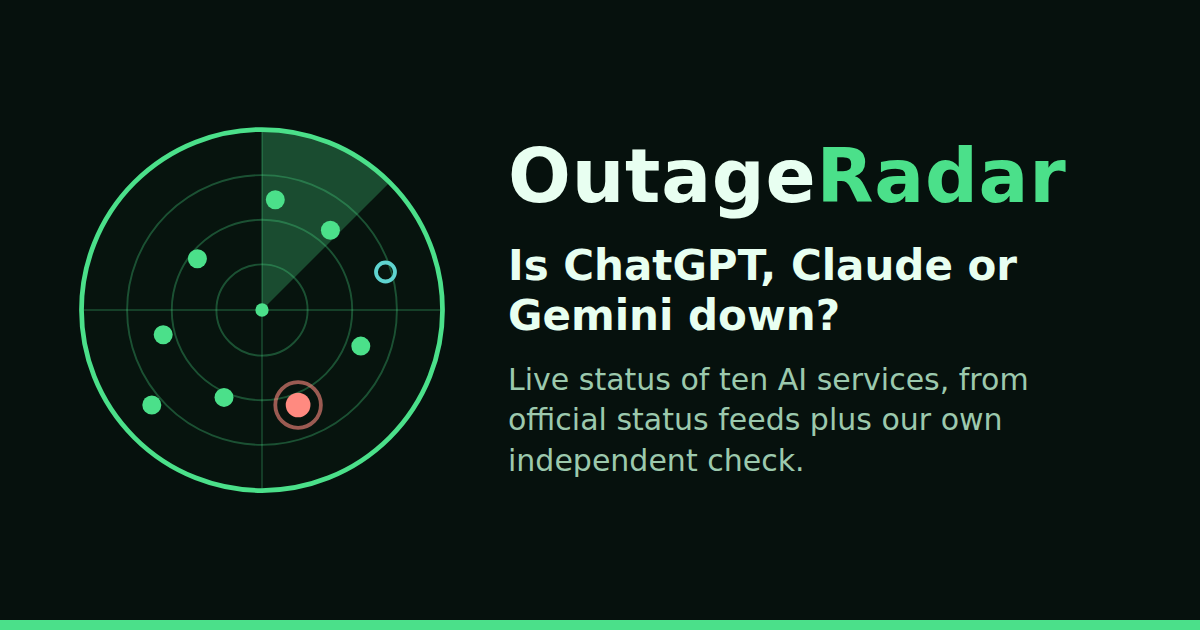
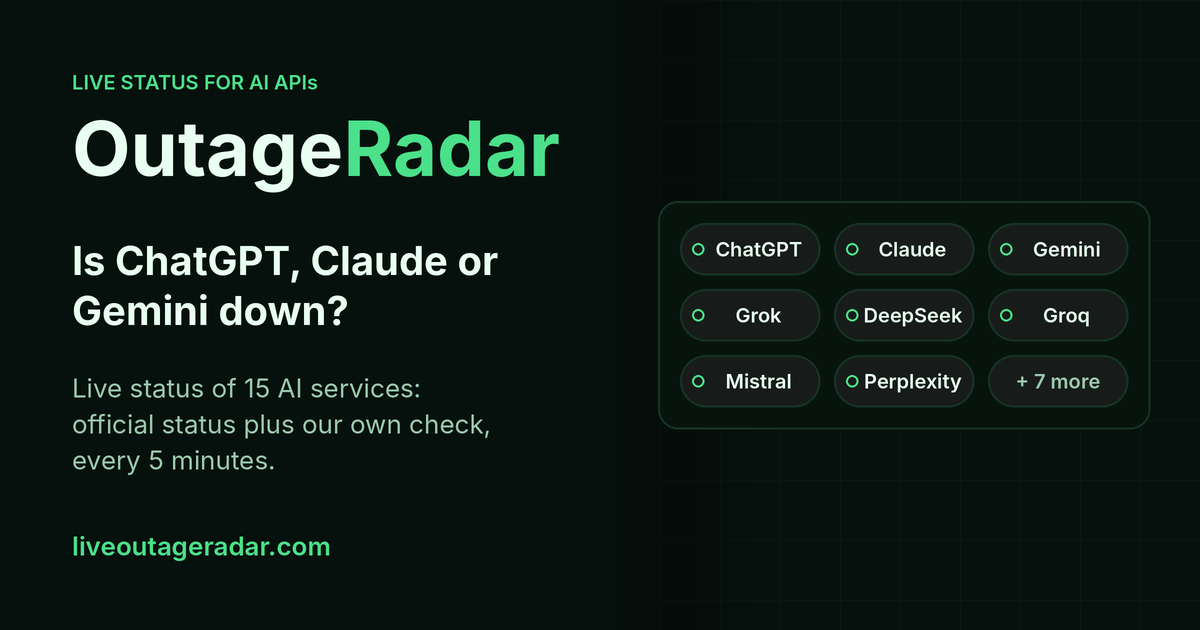
Add files via upload

diff --git a/web-tests/board.test.js b/web-tests/board.test.js
@@ -1,3 +1,5 @@
+import { spawnSync } from "node:child_process";
+import { fileURLToPath } from "node:url";
 // Display-logic tests for the board. Nothing here ships to the site.
 import { test } from "node:test";
 import assert from "node:assert/strict";
@@ -410,6 +412,20 @@ test("the homepage has a link-preview card for social sites", () => {
   assert.equal(png.subarray(1, 4).toString(), "PNG");
   assert.equal(png.readUInt32BE(16), 1200);
   assert.equal(png.readUInt32BE(20), 630);
+});
+
+// v1.18.1: the sharing image is generated from the board's own service list,
+// so its count can't go stale again (it said "ten" after we reached 15).
+test("the sharing image is up to date with the service list", () => {
+  const run = (arg) => spawnSync("python3", [fileURLToPath(new URL("../tools/og_image.py", import.meta.url)), arg], { encoding: "utf8" });
+  const count = run("--count");
+  assert.equal(count.status, 0, count.stderr);
+  assert.equal(Number(count.stdout.trim()), SHELL.length, "the image counts the same services as the board");
+  const verify = run("--verify");
+  assert.equal(verify.status, 0, "site/og.png is out of date: run python3 tools/og_image.py\n" + verify.stdout + verify.stderr);
+  const alt = PAGE.match(/<meta property="og:image:alt" content="([^"]+)">/)[1];
+  assert.match(alt, new RegExp("\\b" + SHELL.length + " AI services\\b"));
+  assert.doesNotMatch(alt, /\bten\b/i);
 });
 
 test("the old preview address forwards to the homepage and is not indexed", () => {

diff --git a/site/index.html b/site/index.html
@@ -18,7 +18,7 @@
 <meta property="og:image" content="https://liveoutageradar.com/og.png">
 <meta property="og:image:width" content="1200">
 <meta property="og:image:height" content="630">
-<meta property="og:image:alt" content="OutageRadar radar emblem with the words: live status of AI services">
+<meta property="og:image:alt" content="OutageRadar: is ChatGPT, Claude or Gemini down? Live status of 15 AI services, official status plus our own check every 5 minutes.">
 <meta name="twitter:card" content="summary_large_image">
 <style>
 :root{

diff --git a/tools/og_image.py b/tools/og_image.py
@@ -1,0 +1,125 @@
+"""Sharing image (site/og.png, 1200x630) for link previews on X, Bluesky,
+Discord, Slack and others. Site v1.18.1.
+
+The service count and the "+ N more" chip come from the board's own list in
+site/board.js, so the image can't go stale when services are added.
+
+  python3 tools/og_image.py           write site/og.png
+  python3 tools/og_image.py --count   print the service count it uses
+  python3 tools/og_image.py --verify  exit 1 if site/og.png is out of date
+
+Needs Pillow and the Inter font (only to regenerate; the site never runs this).
+Names only, never statuses: a fixed picture must not claim anything is up.
+"""
+import os
+import re
+import sys
+
+ROOT = os.path.dirname(os.path.dirname(os.path.abspath(__file__)))
+BOARD = os.path.join(ROOT, "site", "board.js")
+OUT = os.path.join(ROOT, "site", "og.png")
+FONT_DIRS = ["/usr/share/fonts/opentype/inter", os.path.join(ROOT, "brand", "fonts")]
+
+BG = (6, 17, 13)
+LINE = (23, 51, 37)
+TEXT = (232, 255, 241)
+MUTED = (156, 201, 173)
+OP = (75, 224, 138)
+CHIP = (23, 28, 26)
+PANEL = (7, 20, 14)
+SHOWN = ["ChatGPT", "Claude", "Gemini", "Grok", "DeepSeek", "Groq", "Mistral", "Perplexity"]
+
+
+def service_count():
+    with open(BOARD, encoding="utf-8") as fh:
+        src = fh.read()
+    start = src.index("export const SHELL = [")
+    end = src.index("];", start)
+    return len(re.findall(r"\{\s*id:\s*\"[a-z0-9-]+\"", src[start:end]))
+
+
+def font(name, size):
+    from PIL import ImageFont
+    for d in FONT_DIRS:
+        path = os.path.join(d, name)
+        if os.path.exists(path):
+            return ImageFont.truetype(path, size)
+    raise SystemExit("Inter font not found (" + name + "); install Inter to regenerate the image")
+
+
+def render():
+    from PIL import Image, ImageDraw, ImageFilter
+    n = service_count()
+    s = 2
+    w, h = 1200 * s, 630 * s
+    img = Image.new("RGBA", (w, h), BG + (255,))
+    grid = Image.new("RGBA", (w, h), (0, 0, 0, 0))
+    g = ImageDraw.Draw(grid)
+    for x in range(0, w, 60 * s):
+        g.line((x, 0, x, h), fill=LINE + (60,), width=s)
+    for y in range(0, h, 60 * s):
+        g.line((0, y, w, y), fill=LINE + (60,), width=s)
+    img.alpha_composite(grid)
+    fade = Image.new("RGBA", (w, h), (0, 0, 0, 0))
+    ImageDraw.Draw(fade).rectangle((0, 0, int(w * 0.56), h), fill=BG + (235,))
+    img.alpha_composite(fade.filter(ImageFilter.GaussianBlur(60 * s)))
+
+    d = ImageDraw.Draw(img)
+    x0 = 72 * s
+    d.text((x0, 70 * s), "LIVE STATUS FOR AI APIs", font=font("Inter-SemiBold.otf", 20 * s), fill=OP)
+    big = font("Inter-Bold.otf", 76 * s)
+    d.text((x0, 102 * s), "Outage", font=big, fill=TEXT)
+    d.text((x0 + d.textlength("Outage", font=big), 102 * s), "Radar", font=big, fill=OP)
+    head = font("Inter-Bold.otf", 40 * s)
+    d.text((x0, 236 * s), "Is ChatGPT, Claude or", font=head, fill=TEXT)
+    d.text((x0, 286 * s), "Gemini down?", font=head, fill=TEXT)
+    sub = font("Inter-Regular.otf", 26 * s)
+    d.text((x0, 372 * s), "Live status of " + str(n) + " AI services:", font=sub, fill=MUTED)
+    d.text((x0, 408 * s), "official status plus our own check,", font=sub, fill=MUTED)
+    d.text((x0, 444 * s), "every 5 minutes.", font=sub, fill=MUTED)
+    d.text((x0, 530 * s), "liveoutageradar.com", font=font("Inter-SemiBold.otf", 26 * s), fill=OP)
+
+    names = SHOWN + ["+ " + str(n - len(SHOWN)) + " more"]
+    cw, ch, gap = 140 * s, 52 * s, 14 * s
+    px = w - 72 * s - (3 * cw + 2 * gap)
+    py = (h - (3 * ch + 2 * gap)) // 2
+    d.rounded_rectangle((px - 22 * s, py - 22 * s, px + 3 * cw + 2 * gap + 22 * s, py + 3 * ch + 2 * gap + 22 * s),
+                        radius=20 * s, fill=PANEL, outline=LINE, width=2 * s)
+    chip = font("Inter-SemiBold.otf", 20 * s)
+    for i, name in enumerate(names):
+        cx = px + (i % 3) * (cw + gap)
+        cy = py + (i // 3) * (ch + gap)
+        d.rounded_rectangle((cx, cy, cx + cw, cy + ch), radius=ch // 2, fill=CHIP, outline=LINE, width=2 * s)
+        more = name.startswith("+")
+        if not more:
+            r = 6 * s
+            dx, dy = cx + 18 * s, cy + ch // 2
+            d.ellipse((dx - r, dy - r, dx + r, dy + r), outline=OP, width=2 * s)  # neutral ring, no status
+        tw = d.textlength(name, font=chip)
+        tx = cx + (cw - tw) // 2 + (0 if more else 9 * s)
+        d.text((tx, cy + ch // 2), name, font=chip, fill=MUTED if more else TEXT, anchor="lm")
+    return img.resize((1200, 630), Image.LANCZOS).convert("RGB")
+
+
+def main(argv):
+    if "--count" in argv:
+        print(service_count())
+        return 0
+    img = render()
+    if "--verify" in argv:
+        from PIL import Image, ImageChops
+        if not os.path.exists(OUT):
+            print("site/og.png is missing")
+            return 1
+        current = Image.open(OUT).convert("RGB")
+        if current.size != img.size or ImageChops.difference(current, img).getbbox() is not None:
+            print("site/og.png differs from the generated image")
+            return 1
+        return 0
+    img.save(OUT, optimize=True)
+    print("wrote site/og.png (" + str(service_count()) + " services)")
+    return 0
+
+
+if __name__ == "__main__":
+    sys.exit(main(sys.argv[1:]))

diff --git a/AGENT_BRIEF.md b/AGENT_BRIEF.md
@@ -8,7 +8,7 @@ Read this whole file before making any change. It applies to every AI agent work
 - **What is live right now:** a coming-soon placeholder page. `index.html` and `robots.txt` in the repo were edited by hand on GitHub. The page has a `noindex` meta tag, and `robots.txt` says `Disallow: /`, so search engines are asked to stay away until launch.
 - **The old starter pages** (stack.html, about.html, disclosure.html, privacy.html) still exist in the repo and can be opened by direct URL, but they are not linked from the placeholder and crawlers are blocked.
 - **The real status board does not exist yet.**
-- **Checker (Stage 2, built Nov 3, 2026):** `worker/checker.js` is a Cloudflare Worker (free plan, every 5 minutes) that writes board data to KV and serves it at `data.liveoutageradar.com/status.json` and `/health`. Each service shows Unknown until the owner lists it in the `APPROVED_MAPPINGS` variable. v1.1 (Nov 4, 2026): OpenAI, Mistral, Perplexity and Groq approved and live. v1.2 (Nov 4) added Claude, Cohere and Hugging Face (approved and live) plus Gemini and DeepSeek (no official feed; check-only states from v1.3). v1.3 moved xAI to its JSON summary (approved). v1.4 adds server-side age to status.json. v1.5 (Nov 7) adds first-party page-view/click counts (daily totals in D1, no IPs/cookies/IDs; site/ping.js) and a private dashboard at data.liveoutageradar.com/admin (ADMIN_KEY secret); see worker/README.md. v1.6 (Nov 8) moves the Groq check to its API server and adds an incident log (in state:v1) with a "Last incident" line on the board. v1.6.1 (Nov 8) adds AG review fixes (2 healthy checks to close an incident; 2-hour Unknown limit closes it as end not confirmed), dashboard chart labels and country names, and API-only wording on the board. v1.7.0 (Nov 8) adds per-service history pages at /status/<id>/ (generated by tools/status-pages.mjs), /incidents.json, board links to them, sitemap entries and llms.txt. v1.8.0 (Nov 8) times each API check (latency_ms, shown as "responding in 312 ms") and keeps a 30-day daily latency summary in state:v1 for a future baseline. Site v1.9.0 (Nov 8, checker unchanged at 1.8.0) adds "If X is down: switch to a backup" on every history page (tools/backups.mjs: 7 verified OpenAI-compatible addresses, model names left as PICK_FROM_LIST, live status per backup, Copy buttons, no referral links yet) and a board link to it while a service has problems. Checker v1.10.0 (Nov 9) adds six HIDDEN services in sample mode (OpenRouter, Together, Fireworks, DeepInfra, GitHub Copilot, Microsoft Copilot), a samples download on the dashboard, and a subrequest budget that counts KV/D1 calls (sample run 39/50, normal 27/50). v1.11.0 (Nov 9, checker and site) lists Together AI and Fireworks AI (12 services, 12 history pages), maps GitHub Copilot's feed but keeps it hidden, parks Microsoft Copilot (removed), samples DeepInfra's /api page and Atom feed and OpenRouter's /api/v1/key once, keeps odd probe replies' first characters, and stops stale data from listing hidden services (sample run 34/50, normal 29/50). v1.12.0 (Nov 10) lists OpenRouter (our check only, now /api/v1/key) and GitHub Copilot (400 = answering, no backup box): 14 services; DeepInfra stays hidden while its documented JSON API is sampled. v1.13.0 (Nov 10) lists DeepInfra (core API service from its JSON API; 15 services), applies the AG review (Copilot 400 must say the Authorization header is missing; last-step public filter), corrects the GitHub Copilot page wording, and fixes the wrong static Together/Fireworks row links from v1.11.0. See worker/README.md. Site v1.14.0 (Nov 10, checker unchanged at 1.13.0) adds API error pages: /errors/ hub + 8 pages (Claude 529/429, OpenAI 503/429/insufficient_quota, Gemini 429/503, DeepSeek 503) generated with the history pages by `node tools/status-pages.mjs` from tools/errors.mjs. Facts only from official docs (re-check before editing; LAST_CHECKED date on every page); buckets server/rate/account; backup box only on server-side errors; retry helper behaviour-tested in web-tests/errors.test.js. Site v1.15.0 (Nov 10): homepage shows the services in two columns of stacked cards at 56rem and wider (#services only; phones and small tablets keep one column; problems still sort first), a clear "Got an API error" link under the intro, and the /errors/ hub lists one error per line with a short note. Checker v1.14.0 + site v1.16.0 (Nov 10) add RSS feeds of incidents at data.liveoutageradar.com/feed.xml and /feed/<id>.xml (one item per incident, updated in place when it ends), linked from the homepage footer and every history page. Checker v1.15.0 + site v1.17.0 (Nov 10) add self-serve Discord/Slack alerts, Phase 1 PILOT (hidden pages /alerts/, /alerts/confirm/, /alerts/unsubscribe/; secrets ALERTS_ENC_KEY + ALERTS_SIGN_KEY; second cron "* * * * *" sends). Privacy page updated. Pilot passed Nov 11 (real Together AI alert + recovery). Checker v1.16.0 + site v1.18.0 make alerts public: linked from homepage and history pages, Select all, update/pending wording, dashboard counts. See worker/README.md.
+- **Checker (Stage 2, built Nov 3, 2026):** `worker/checker.js` is a Cloudflare Worker (free plan, every 5 minutes) that writes board data to KV and serves it at `data.liveoutageradar.com/status.json` and `/health`. Each service shows Unknown until the owner lists it in the `APPROVED_MAPPINGS` variable. v1.1 (Nov 4, 2026): OpenAI, Mistral, Perplexity and Groq approved and live. v1.2 (Nov 4) added Claude, Cohere and Hugging Face (approved and live) plus Gemini and DeepSeek (no official feed; check-only states from v1.3). v1.3 moved xAI to its JSON summary (approved). v1.4 adds server-side age to status.json. v1.5 (Nov 7) adds first-party page-view/click counts (daily totals in D1, no IPs/cookies/IDs; site/ping.js) and a private dashboard at data.liveoutageradar.com/admin (ADMIN_KEY secret); see worker/README.md. v1.6 (Nov 8) moves the Groq check to its API server and adds an incident log (in state:v1) with a "Last incident" line on the board. v1.6.1 (Nov 8) adds AG review fixes (2 healthy checks to close an incident; 2-hour Unknown limit closes it as end not confirmed), dashboard chart labels and country names, and API-only wording on the board. v1.7.0 (Nov 8) adds per-service history pages at /status/<id>/ (generated by tools/status-pages.mjs), /incidents.json, board links to them, sitemap entries and llms.txt. v1.8.0 (Nov 8) times each API check (latency_ms, shown as "responding in 312 ms") and keeps a 30-day daily latency summary in state:v1 for a future baseline. Site v1.9.0 (Nov 8, checker unchanged at 1.8.0) adds "If X is down: switch to a backup" on every history page (tools/backups.mjs: 7 verified OpenAI-compatible addresses, model names left as PICK_FROM_LIST, live status per backup, Copy buttons, no referral links yet) and a board link to it while a service has problems. Checker v1.10.0 (Nov 9) adds six HIDDEN services in sample mode (OpenRouter, Together, Fireworks, DeepInfra, GitHub Copilot, Microsoft Copilot), a samples download on the dashboard, and a subrequest budget that counts KV/D1 calls (sample run 39/50, normal 27/50). v1.11.0 (Nov 9, checker and site) lists Together AI and Fireworks AI (12 services, 12 history pages), maps GitHub Copilot's feed but keeps it hidden, parks Microsoft Copilot (removed), samples DeepInfra's /api page and Atom feed and OpenRouter's /api/v1/key once, keeps odd probe replies' first characters, and stops stale data from listing hidden services (sample run 34/50, normal 29/50). v1.12.0 (Nov 10) lists OpenRouter (our check only, now /api/v1/key) and GitHub Copilot (400 = answering, no backup box): 14 services; DeepInfra stays hidden while its documented JSON API is sampled. v1.13.0 (Nov 10) lists DeepInfra (core API service from its JSON API; 15 services), applies the AG review (Copilot 400 must say the Authorization header is missing; last-step public filter), corrects the GitHub Copilot page wording, and fixes the wrong static Together/Fireworks row links from v1.11.0. See worker/README.md. Site v1.14.0 (Nov 10, checker unchanged at 1.13.0) adds API error pages: /errors/ hub + 8 pages (Claude 529/429, OpenAI 503/429/insufficient_quota, Gemini 429/503, DeepSeek 503) generated with the history pages by `node tools/status-pages.mjs` from tools/errors.mjs. Facts only from official docs (re-check before editing; LAST_CHECKED date on every page); buckets server/rate/account; backup box only on server-side errors; retry helper behaviour-tested in web-tests/errors.test.js. Site v1.15.0 (Nov 10): homepage shows the services in two columns of stacked cards at 56rem and wider (#services only; phones and small tablets keep one column; problems still sort first), a clear "Got an API error" link under the intro, and the /errors/ hub lists one error per line with a short note. Checker v1.14.0 + site v1.16.0 (Nov 10) add RSS feeds of incidents at data.liveoutageradar.com/feed.xml and /feed/<id>.xml (one item per incident, updated in place when it ends), linked from the homepage footer and every history page. Checker v1.15.0 + site v1.17.0 (Nov 10) add self-serve Discord/Slack alerts, Phase 1 PILOT (hidden pages /alerts/, /alerts/confirm/, /alerts/unsubscribe/; secrets ALERTS_ENC_KEY + ALERTS_SIGN_KEY; second cron "* * * * *" sends). Privacy page updated. Pilot passed Nov 11 (real Together AI alert + recovery). Checker v1.16.0 + site v1.18.0 make alerts public: linked from homepage and history pages, Select all, update/pending wording, dashboard counts. See worker/README.md. Site v1.18.1 (Nov 11): new sharing image site/og.png (it still said "ten" services), generated by `python3 tools/og_image.py` from the board's service list (names only, no statuses); a test fails if it is out of date.
 - **LAUNCHED Nov 5, 2026.** The status board is the homepage: `site/index.html` + `site/board.js`. Search engines allowed (`site/robots.txt` Allow, `site/sitemap.xml`). `/preview/` redirects to `/`. Link-preview card: `site/og.png`. Privacy page: `site/privacy.html`. Rollback: `launch-backup/README.md`. The old `build.py` / `COMING_SOON` flow and root-level pages are legacy and not published; do not use them for the live site.
 - **Board (Stage 3):** It reads status.json, starts as Checking, shows Unknown when data is missing or older than 15 minutes (by server age), polls every 2 minutes, pauses in background tabs and after 20 idle minutes. Logic tests: `web-tests/` (`npm test`). At launch it becomes the homepage. UptimeRobot watches `/health` and the website. Read `worker/README.md` before changing it. Claude writes the checker code; other agents review only unless the owner says otherwise.
 - **Publish folder:** the live site is served from `site/`, not the repo root (Render Publish Directory = `site`). Anything outside `site/` (this file, build.py, PLAN.md, the old starter pages) is not public. `site/` holds only the placeholder `index.html`, `robots.txt` (Disallow) and a placeholder `404.html`.
